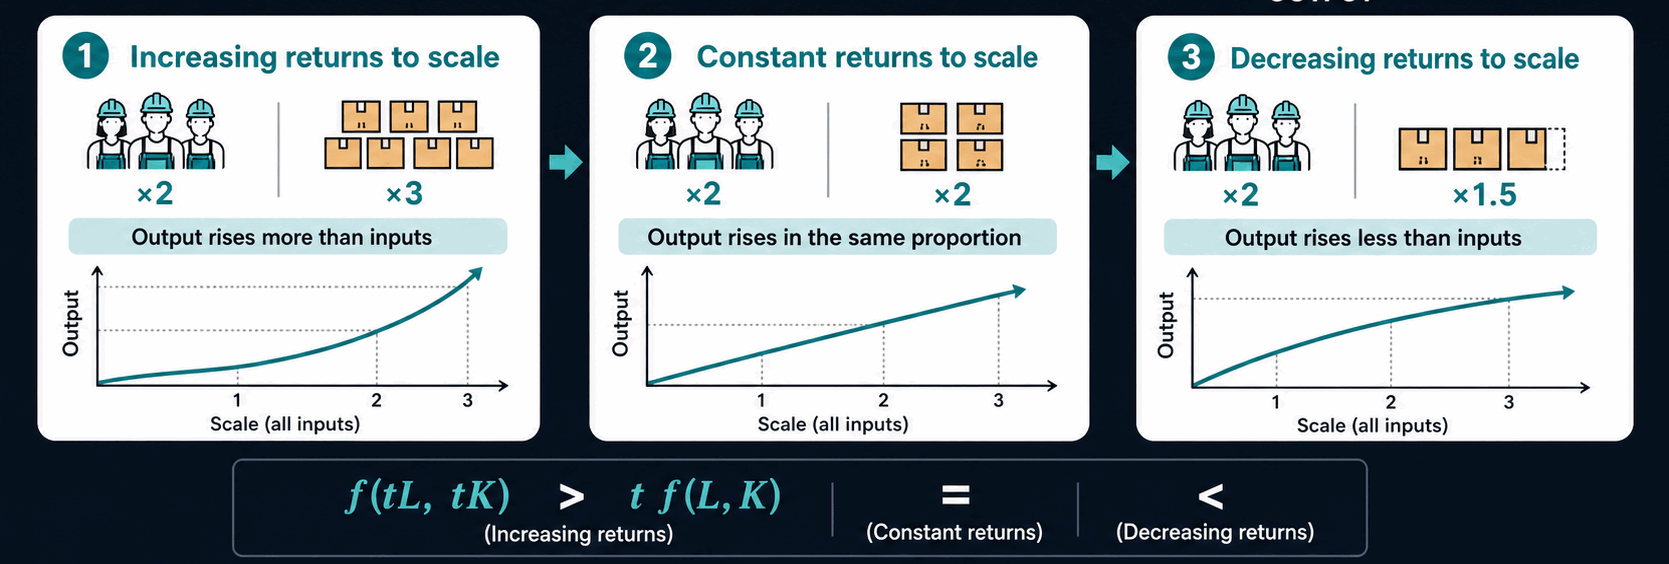
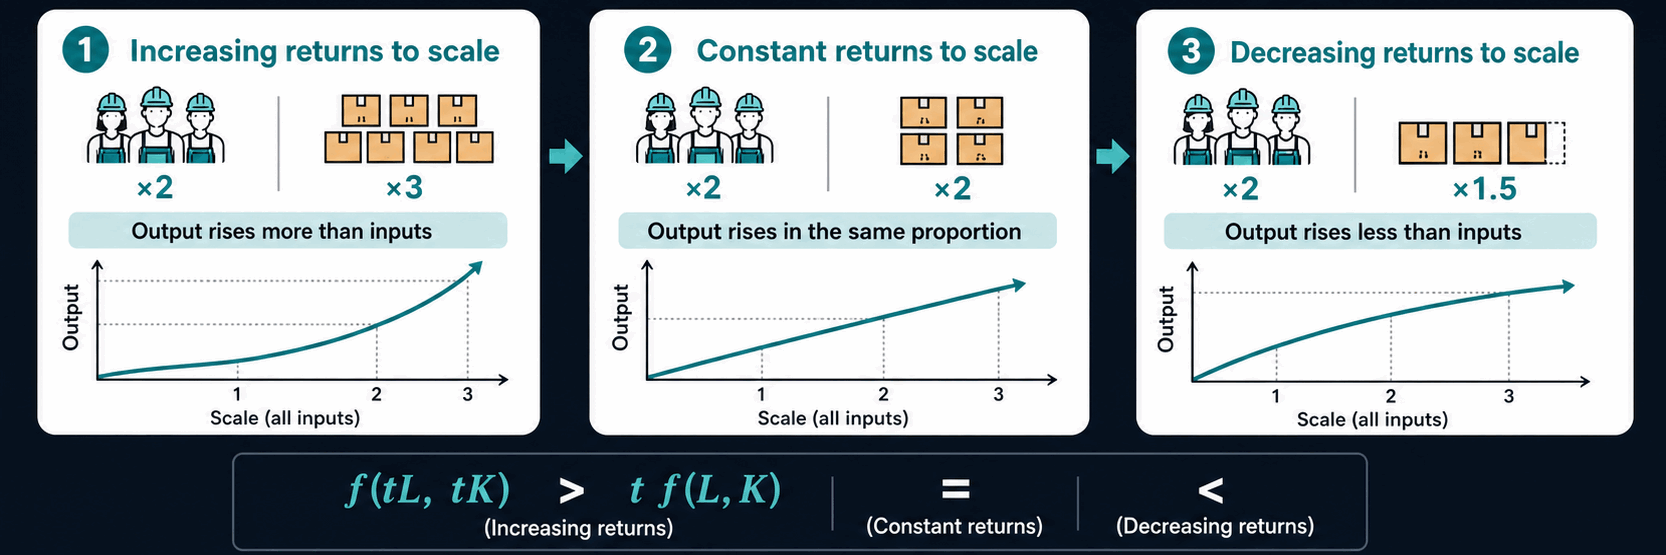
Thu Aug 20 01:13:56 PM EEST 2026

diff --git a/content/lean-reduction-post/human-workflow/index.md b/content/lean-reduction-post/human-workflow/index.md
@@ -1,0 +1,77 @@
+---
+title: "Human-centered AI Workflow"
+date: "2026-08-20"
+---
+
+## Foreward
+
+The word workflow is reminiscent of agentic workflows. _Lean Reduction_ advocates for a different kind of an AI workflow, centered on humans. AI workflows typically contain feedback loops to train AI. A human-centered AI workflow contains a human feedback loop to boost a human's ability to evaluate AI's output. Humans are ought to seek control by steering the AI workflow. The more the human learns to evaluate and steer AI, the more useful AI becomes.
+
+We propose the following components:
+- Preliminary
+- Human Toolkit
+- Human Judgment
+- Human Feedback Loop
+
+_Preliminary_ are skills and backgrounds a human must learn before adopting the workflow. _Human Toolkit_ are first-principles through which a human evaluates. Those could be guidelines, policies, pieces of knowledge, or resources. _Human Judgment_ specifies the decisions taken by a human following her intuition. _Human Feedback Loop_ specifies what the human is supposed to learn and refine. At the end of a loop, a human may ask himself: How could I have solved this in less time? What kind of knowledge do I need the next time? Is there a higher-quality solution?
+
+Let's take examples.
+
+
+## Writing
+
+![](./writing.png)
+
+Relying on LLMs for writing is observed to strip away the author's distinct style and leaves the readers disconnected. A human-centered workflow enforces a writer's unique voice by setting him in control by deciding and evaluating the phrasing, message, style, flow of ideas, and the target audience.
+
+
+| Component | Sub | Details |
+|-|-|-|
+| Preliminary |  | Writing a sentence similar to another given one.|
+| Human Toolkit | Guidelines | Simplicity. Rely on few clear sentences to communicate the idea. Remove any redundancy which won't affect the reader's understanding. |
+|  |  | Clutter. Keep each paragraph focused on cohesive ideas, and ensure ideas flow progressively without steep leaps. |
+|  |  | Audience. Consider the group of readers you intend to reach, and the message you want to communicate to them. |
+|  |  | Style. Formal, conversational, humorous, narrative, lyrical, and technical. |
+|  | Reference | On Writing Well by William Zinsser |
+| Human Judgment |  | Tuning a given sentence so that it conforms to unique taste and voice. |
+| Flow |  | 1. Human: Decide target audience, message, sequence of ideas, and style. |
+|  |  | 2. Human: Decide some illustrative sentences. |
+|  |  | 3. AI: Re-express the sentences of (2) following the style chosen in (1). |
+|  |  | 4. Human: Quickly write each paragraph and include the main ideas. Get inspired by (3) but don't exactly repeat the sentences. |
+|  |  | 5. AI: Re-express each paragraph more elegantly. |
+|  |  | 6. Human: Review, learn, and selectively refine the writing of (4). |
+| Human Feedback Loop |  | Progressively, reduce the reliance on (3), and write in place of it your own notes and examples of unique style. |
+|  |  | What kind of background I should have to write sentences of (6) without (5) aid? |
+
+
+
+## Linux Power User
+
+![](./linux.png)
+
+Relying on LLMs or QnA forums for troubleshooting linux is useful but many users miss a central educational opportunity. Their usage becomes naive like "solve my problem" instead of utilizing resources as a tool to augment human thinking. A human-centered workflow enforces the user to learn lower-level toolkit to troubleshoot and build.
+
+  
+| Component | Sub | Details |
+|-|-|-|
+| Preliminary |  | Brian Ward. How Linux Works: What Every Superuser Should Know |
+| Human Toolkit | Guidelines | Refute givens and invent by your own style. |
+|  |  | Prefer minimal and simple designs. |
+|  |  | Don't create many layers of abstractions for hiding. Design so that no higher-level abstraction is needed. |
+|  |  | Prefer that solving a related problem utilizes a common ground. |
+| | | Given an unfamiliar piecee, learn simple facts and commands surrounding it. Trace it back to fundamental notions and toolkit. |
+| | | Follow an unfamiliar solution only if you can reverse it. |
+|  | Reference | [Arch Wiki](https://wiki.archlinux.org/) |
+| Human Judgment |  |  |
+| Flow |  | 1. Human: Observe system and elicit relevant logs. Recall a relevant event causing the problem. Form a hypothesis. |
+|  |  | 2. AI: Generate final answers. |
+|  |  | 3. Human: Filter and refine. |
+|  |  | 4. AI: Generate system administration background. |
+|  |  | 5. Human: Filter and refine. |
+|  |  | 6. AI: Generate system administration maintainance procedures. Consider packages, kernel modules, and system services. Consider setup, observation and logs tools, health checking, and testing. |
+| | | 7. Human: Learn and tinker your system. Connect unfamiliar solutions of (2) to system administration notions and toolkit of (6). |
+| Human Feedback Loop |  | What lower toolkit or logs could have assisted me to figure the solution? |
+|  |  | What kind of troubleshooting process could have discovered this? |
+
+
+## TBD

diff --git a/content/lean-reduction-post/intro/index.md b/content/lean-reduction-post/intro/index.md
@@ -14,9 +14,9 @@ Let us begin with a familiar process: selling. A street vendor sells items indiv
 
 ![](./returns-to-scale.png)
 
-The aforementioned sale mechanisms illustrate the notion of _returns to scale_ in microeconomics. It explains how increasing output relate to input increase. When the launches multiple stores, revenue increases. However, the revenue growth in proportion to the added cost of coordination and monitoring is less. The total revenue rises but the average revenue per unit of output declines.
+The aforementioned sale mechanisms illustrate the notion of _returns to scale_ in microeconomics. It explains how increases in output relate to increases in input. When multiple stores launch, revenue increases. However, the revenue growth in proportion to the added cost of coordination and monitoring is less. The total revenue rises but the average revenue per unit of output declines.
 
-Microeconomics conventionally represents the production function $F(K,L)$. For our purposes, we use $C(N) = cN + H(N)$ where $C$ is cost function, $N$ is output units, $c$ is the per-unit cost, and $H(N)$ is human coordination cost. Scalability improves when $H(N)$ grows slowly relative to $N$. Owning many stores corresponds to a high $H(N)$ due to the management hierarchy, and a moderate $c$ due to store rent. The website corresponds to low $H(N)$ due to specialized IT administrators, and low $c$ due to server cost. The average cost per unit of output is less in the website. The _returns to scale_ is increasing. The website enables the business to scale its value delivery.
+Microeconomics conventionally presents the production function $F(K,L)$. For our purposes, we use $C(N) = cN + H(N)$ where $C$ is cost function, $N$ is output units, $c$ is the per-unit cost, and $H(N)$ is human coordination cost. Scalability improves when $H(N)$ grows slowly relative to $N$. Owning many stores corresponds to a high $H(N)$ due to the management hierarchy, and a moderate $c$ due to store rent. The website corresponds to low $H(N)$ due to specialized IT administrators, and low $c$ due to server cost. The average cost per unit of output is less in the website. The _returns to scale_ is increasing. The website enables the business to scale its value delivery.
 
 ## eBay and Mechanism Design
 

diff --git a/content/post/lean-reduction/index.md b/content/post/lean-reduction/index.md
@@ -8,7 +8,7 @@ cover:
 
 ## Foreward
 
-The world is rushing on more powerful AI and more sophisticated systems for harnessing. We argue the main bottleneck of deploying a useful AI is the end-consumer's mistaken perception. A useful AI is usually perceived by end-consumers to be an assistant to finish some work faster by avoiding cognitive thinking. We argue a useful AI emerges when a human decides to tackle a higher-cognitive problem, delegating well-governed subroutines to AI. Useful AI emerges when a human thinks with structured toolkit and well-organized principles. We propose a new human-centered methodological framework for AI adoption. It is named _Lean Reduction_ following the same idea of _Lean Startup_ but on a different direction: Reducing the world's complexity to structure and order.
+The world is rushing on more powerful AI and more sophisticated systems for harnessing. We argue the main bottleneck of deploying a useful AI is the end-consumer's mistaken perception. A useful AI is usually perceived by end-consumers to be an assistant to finish some work faster by avoiding cognitive thinking. We argue a useful AI emerges when a human decides to tackle a higher-cognitive problem, delegating well-governed subroutines. When a human thinks with structured toolkit and well-organized principles, AI emerges as a natural consequence. We propose a new human-centered methodological framework for AI adoption. It is named _Lean Reduction_ following the same idea of _Lean Startup_ but on a different direction: Reducing the world's complexity to organized order.
 
 ## Content
 
@@ -18,4 +18,4 @@ The world is rushing on more powerful AI and more sophisticated systems for harn
 | [Introduction to Lean Reduction](/lean-reduction-post/intro) |
 | [Thinking with Patterns](/lean-reduction-post/think-pattern) (In Progress) |
 | [Progressive Modeling for Human Judgment](/lean-reduction-post/modeling-for-judgment) (In Progress) |
-| Workflows for Indivisuals (In Progress) |
+| [Human-centered AI Workflow](/lean-reduction-post/human-workflow) |
